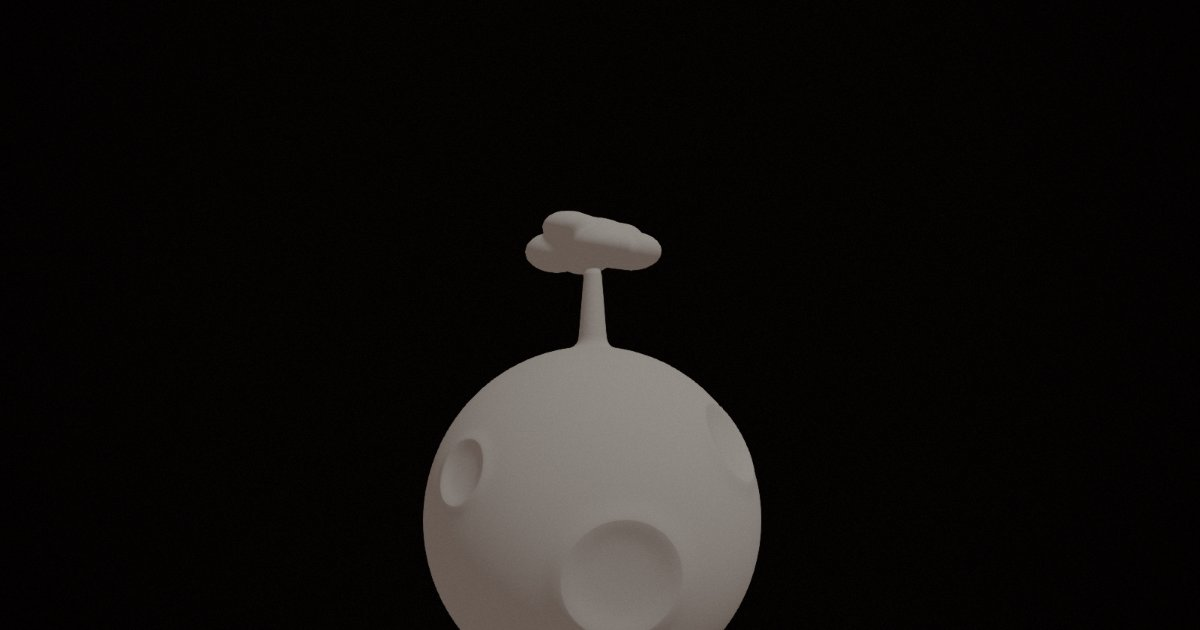
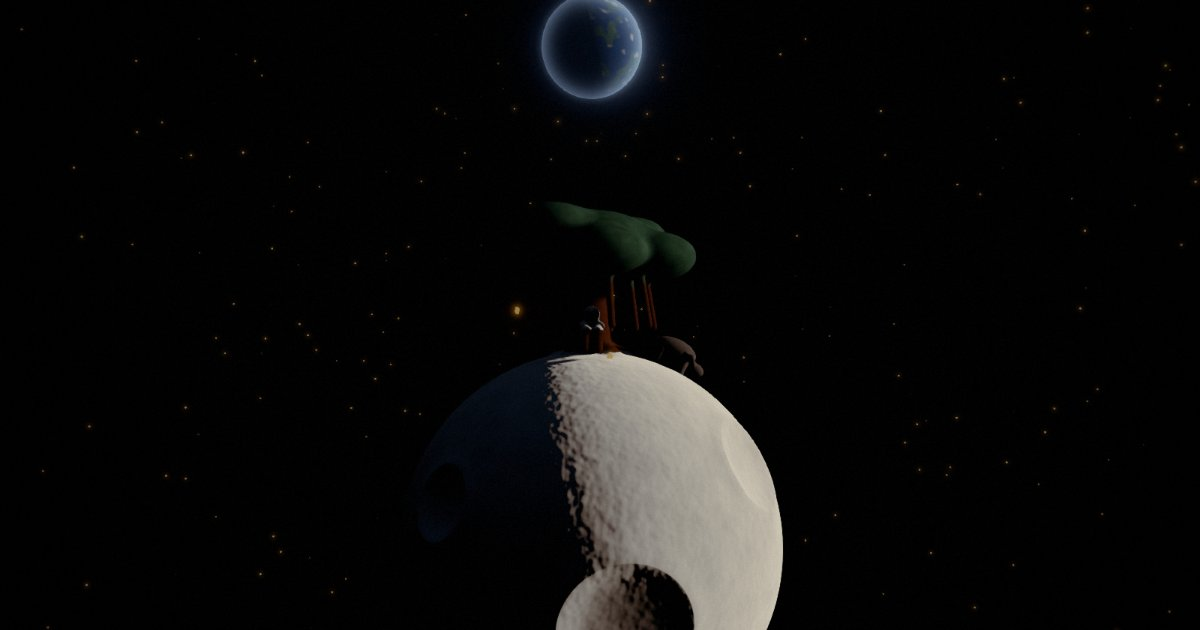
style(cung-que): lượt màu (số trước/sau trong thân commit); poster và og chụp từ cảnh
Đo trên GPU thật (Mac M2), ba pha, 1280×800: sáng trung bình 0–255 · tỉ lệ điểm tối · vùng được nắng (độ sáng > 120): sáng, "ấm" (R − B > 20).
  Trước: mùng 3  9,5 · 89,6% · 155,8, ấm 98%   mùng 8  11,5 · 90,8% · 164,0, ấm 95%   rằm  13,1 · 91,2% · 163,3, ấm 99%
  Sau:   mùng 3  8,6 · 90,9% · 149,3, ấm 12%   mùng 8  10,7 · 91,8% · 158,0, ấm 21%   rằm  12,3 · 91,2% · 155,8, ấm 13%
  Không pha nào có điểm cháy trắng. 390×844 sau: 19,3 / 21,8 / 23,9; ấm 3% / 14% / 13%.

- Nắng: ngà pha 35% xanh ánh đất (nắng ngoài không gian thì trắng): bụi trăng đọc là bạc thay vì kem. Hạ LUT của Phủ bóng gần như
  không đổi gì (độ ấm đến từ màu nắng).
- Ánh đất mặc định 0,25 → 0,18: phần đêm mùng 3 đọc được nhưng tối, lưỡi liềm nổi rõ.
- Mây Trái Đất: bạc lá, mỏng và trải rộng (mây ngà qua LUT thành đốm cam mép gắt).
- Poster chụp ở ngày âm 9,5 (2026-10-19 21:00) thay cho ngày 11: từ ngày 11 Cuội nằm trong bóng tán; ở 9,5 Cuội, cây, trâu cùng được
  nắng, đường ranh sáng tối rõ. Poster 70 KB, og 30 KB.
- Rằm giữ bóng đen của cây và Cuội dưới tán: đúng hình "chú Cuội ngồi gốc cây đa" trên trăng rằm.
Bao duyệt ảnh (trang riêng tư) trước khi hỏi push.

Changed region(s): [[0.3392, 0.3016, 0.6783, 1.0], [0.4317, 0.0, 0.555, 0.181], [0.4008, 0.4825, 0.4317, 0.5127]]

diff --git a/src/paintings/cung-que/parts/anh-dat-troi.js b/src/paintings/cung-que/parts/anh-dat-troi.js
@@ -21,15 +21,16 @@ const STAR_CELLS = 220;
  */
 export function createEarth({ ctx, earth, sunDir, w }) {
   const pal = (token) => color(ctx.palette.color(token));
-  const [sea, land, cloud, rim] = ['cham', 'xanhLuc', 'nga', 'anhDat'].map(pal);
+  const [sea, land, cloud, rim] = ['cham', 'xanhLuc', 'bacLa', 'anhDat'].map(pal); // mây bạc: ngà qua LUT thành cam (lượt màu)
   const spin = ctx.u.time.mul(TAU / earth.spinPeriod);
   const d0 = normalize(positionLocal);
   // Xoay hướng mẫu quanh Y: lục địa và mây trôi qua mặt sáng
   const d = vec3(d0.x.mul(cos(spin)).sub(d0.z.mul(sin(spin))), d0.y, d0.x.mul(sin(spin)).add(d0.z.mul(cos(spin))));
   const isLand = smoothstep(0.02, 0.12, fbm(d.mul(2.2), { octaves: 3 }));
-  const clouds = smoothstep(0.25, 0.45, fbm(d.mul(4).add(vec3(ctx.u.time.mul(0.01))), { octaves: 2 }));
+  // Mây mỏng, trải rộng: ngưỡng thấp và mép mềm (lượt màu: ngưỡng cao cho vài đốm nhỏ mép gắt, trông như vết bẩn)
+  const clouds = smoothstep(0.1, 0.45, fbm(d.mul(4).add(vec3(ctx.u.time.mul(0.01))), { octaves: 2 }));
   const lit = max(dot(normalWorld, sunDir), 0);
-  const albedo = mix(mix(sea, land, isLand), cloud, clouds.mul(0.8));
+  const albedo = mix(mix(sea, land, isLand), cloud, clouds.mul(0.6));
 
   const material = new NodeMaterial();
   material.fog = false;

diff --git a/src/paintings/cung-que/layers/l2-mat-troi.js b/src/paintings/cung-que/layers/l2-mat-troi.js
@@ -18,6 +18,8 @@ const TAU = Math.PI * 2;
 const BUMP_FREQ = 18;
 const BUMP_HEIGHT = 0.0025;
 const BUMP_EPS = 0.002;
+/** Phần xanh ánh đất pha vào màu nắng (ngà) cho nắng trung tính (lượt màu, Task 13). */
+const SUN_COOL = 0.35;
 
 /**
  * @param {import('../../../engine/contracts/runtime.js').LayerCtx} ctx
@@ -37,7 +39,8 @@ export function createLayer(ctx, shared) {
 
   const pal = (token) => color(ctx.palette.color(token));
   const [clay, bacLa, bark, leaf, nga, denThen, vangLa] = ['datSet', 'bacLa', 'canhGian', 'xanhLuc', 'nga', 'denThen', 'vangLa'].map(pal);
-  const sunColor = nga;
+  // Nắng ngoài không gian thì trắng: ngà pha chút xanh ánh đất cho trung tính, nên bụi trăng đọc là bạc, không phải kem (lượt màu, Task 13)
+  const sunColor = mix(nga, pal('anhDat'), SUN_COOL);
   const isId = (h, k) => abs(h.id.sub(k)).lessThan(0.5);
 
   /** Màu thật theo vật. Độ cao tính từ gốc cây (đã dời theo độ cao bay): thân, rễ màu cánh gián; tán xanh lục có cụm lá. */

diff --git a/src/paintings/cung-que/meta.js b/src/paintings/cung-que/meta.js
@@ -17,8 +17,9 @@ export default {
     width: 1600,
     height: 1000,
     alt: 'Tranh sơn mài cung trăng: chú Cuội ngồi gốc cây đa trên một hành tinh nhỏ, con trâu gặm cỏ, Trái Đất treo trên trời.',
-    // scripts/poster.js chụp từ chính cảnh. at quyết định pha trăng (Dial mặc định theo ngày giờ); chốt ở lượt màu (spec §19.3).
-    capture: { at: '2026-10-21T21:00', freeze: 120 },
+    // scripts/poster.js chụp từ chính cảnh. at quyết định pha trăng (Dial mặc định theo ngày giờ). Lượt màu (Task 13) chọn ngày âm
+    // 9,5: nắng xiên từ bên phải nên Cuội, cây và trâu cùng được nắng, đường ranh sáng tối rõ; ở ngày 11 Cuội chìm trong bóng tán.
+    capture: { at: '2026-10-19T21:00', freeze: 120 },
   },
   og: 'paintings/cung-que/og.jpg',
   // Một màu thêm vào bảng sơn mài (spec §19.3): xanh ánh đất, cho ánh đất và viền khí quyển của Trái Đất.

diff --git a/src/paintings/cung-que/layers/l4-anh-dat.js b/src/paintings/cung-que/layers/l4-anh-dat.js
@@ -6,7 +6,7 @@ export const id = 'anh-dat';
 
 export const knobs = [
   // Cường độ ánh đất: ánh Trái Đất hắt xuống hành tinh, rõ nhất ở phần đêm lúc trăng non.
-  { id: 'earthshine', min: 0, max: 1, step: 0.01, value: 0.25 },
+  { id: 'earthshine', min: 0, max: 1, step: 0.01, value: 0.18 },
   // Mật độ sao: phần ô của lưới hướng có sao (×2%).
   { id: 'stars', min: 0, max: 1, step: 0.01, value: 0.6 },
 ];

diff --git a/docs/superpowers/specs/2026-09-28-son-mai-anh-sang-design.md b/docs/superpowers/specs/2026-09-28-son-mai-anh-sang-design.md
@@ -3316,6 +3316,10 @@ shader đó: cảnh không có đèn nào của three.
   - Bụi trăng: `bacLa` (bạc lá). Thân và rễ đa, áo chú Cuội: `canhGian`. Tán đa và lá rơi: `xanhLuc`. Trâu: `denThen` sáng lên một
     chút.
   - Trái Đất: biển `cham`, đất `xanhLuc`, mây `nga`. Sao: `vangLaSang`. Nắng: `nga`.
+    - (GĐ 7, lượt màu Task 13) Mây đổi sang `bacLa`, mỏng và trải rộng hơn: mây `nga` đi qua LUT thành những đốm cam nhỏ, mép gắt.
+    - Nắng là `nga` pha 35% `anhDat`: nắng ngoài không gian thì trắng. Với nắng `nga`, 95–99% vùng được nắng của hành tinh "ấm" (kênh
+      đỏ hơn kênh lam quá 20), nên bụi trăng đọc là kem, không phải bạc. Hạ LUT của Phủ bóng gần như không đổi gì.
+    - Lá rơi: vàng lá pha chút xanh lục, có tỏa nhẹ (§19.2, Task 7).
   - Bức thêm một token qua `meta.palette`: `anhDat` (xanh ánh đất, khoảng `#7E9CC8`), cho ánh đất và viền khí quyển. Số hex chốt ở lượt
     màu.
 - **Dáng:** khối tròn, mềm, như tượng đất nặn rồi sơn mài, vì đó là thứ SDF làm đẹp nhất (hòa khối). Không cố tả từng chiếc lá trên
@@ -3324,10 +3328,27 @@ shader đó: cảnh không có đèn nào của three.
   - chụp từ cảnh bằng `scripts/poster.js cung-que`;
   - `poster.capture` thiết kế là `{ at: '2026-10-21T21:00', freeze: 120 }`: chừng ngày 11 âm lịch, trăng gần tròn, đường ranh sáng
     tối cắt chéo hành tinh nên thấy được bóng mềm của cây. Chốt ở lượt màu, Bao duyệt;
+    - (GĐ 7, lượt màu Task 13) Chốt `{ at: '2026-10-19T21:00', freeze: 120 }`: ngày 9,5. Đã thử bốn khung: ngày 9,5, 11,4, 13,3 và rằm.
+      Từ ngày 11 trở đi, nắng lên cao nên Cuội nằm trong bóng tán. Ở ngày 9,5, nắng xiên từ bên phải, nên Cuội, cây và trâu cùng được
+      nắng; đường ranh sáng tối rõ, phía đêm có ánh đất. Poster 70 KB (WebP), og 30 KB;
   - `poster.alt`: "Tranh sơn mài cung trăng: chú Cuội ngồi gốc cây đa trên một hành tinh nhỏ, con trâu gặm cỏ, Trái Đất treo trên
     trời.".
 - **Lượt màu:** đo như §5 và §18.3 (độ sáng trung bình, độ bão hòa, tỉ lệ điểm tối; 1280×800 và 390×844; GPU thật). Riêng Bức 3 đo ở
   ba pha: mùng 3 (lưỡi liềm, có ánh đất), mùng 8 (thượng huyền), rằm. Bao duyệt ảnh.
+  - (GĐ 7, Task 13) Bầu trời đen chiếm phần lớn khung, nên số đo cả khung ít nói lên điều gì. Đo thêm vùng được nắng (điểm có độ sáng
+    trên 120): độ sáng trung bình, tỉ lệ cháy trắng (cả ba kênh trên 240), tỉ lệ "ấm".
+
+    | Pha | Trước (1280×800) | Sau (1280×800) | Sau (390×844) |
+    |---|---|---|---|
+    | mùng 3 | 9,5 · 0,12 · 89,6% · nắng 155,8, ấm 98% | 8,6 · 0,12 · 90,9% · nắng 149,3, ấm 12% | 19,3 · 0,19 · 78,9% · ấm 3% |
+    | mùng 8 | 11,5 · 0,11 · 90,8% · nắng 164,0, ấm 95% | 10,7 · 0,11 · 91,8% · nắng 158,0, ấm 21% | 21,8 · 0,17 · 82,0% · ấm 14% |
+    | rằm | 13,1 · 0,09 · 91,2% · nắng 163,3, ấm 99% | 12,3 · 0,08 · 91,2% · nắng 155,8, ấm 13% | 23,9 · 0,12 · 82,3% · ấm 13% |
+
+    (sáng trung bình 0–255 · bão hòa · tỉ lệ điểm tối · vùng nắng; không pha nào có điểm cháy trắng.)
+  - Đổi: nắng `nga` pha 35% `anhDat`; `anh-dat.earthshine` 0,25 → 0,18 (mùng 3: phần đêm đọc được nhưng tối, lưỡi liềm nổi lên); mây
+    Trái Đất. Giữ: `mat-troi.intensity` 1,6, `surge` 0,5, `bong-mem.ao` 0,8, hex `anhDat`.
+  - Rằm: thân cây và Cuội nằm trong bóng tán, in đen trên trăng sáng. Giữ, vì đó đúng là bóng "chú Cuội ngồi gốc cây đa" người ta thấy
+    trên trăng rằm. Không thêm ánh hắt từ mặt đất.
 
 ### 19.4 Sáu lớp
 **Một shader cho cả thế giới.** Khối bao là MỘT mesh với MỘT material. Mọi lớp góp vào material đó lúc dựng, như các lớp của Bức 2
